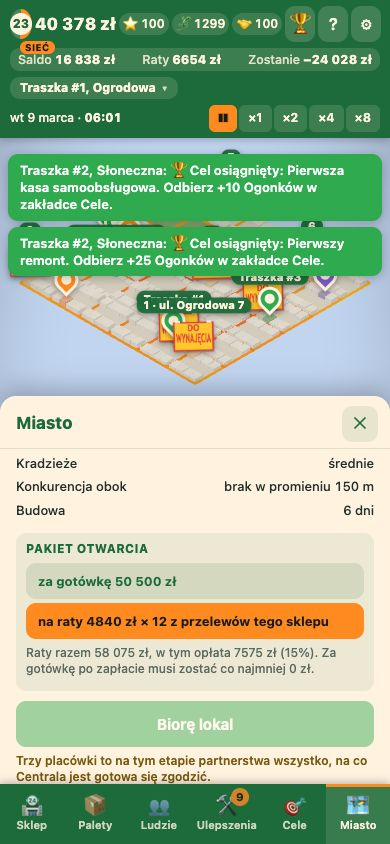
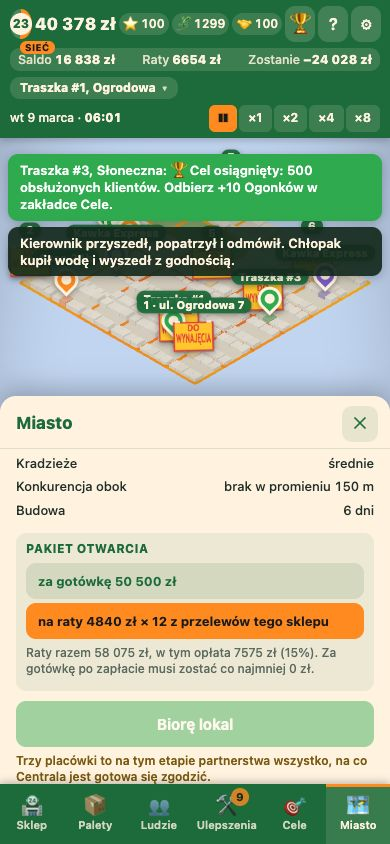
docs(raport): odświeżenie raportu 4a.2 po poprawkach końcowych i ostatnim smoke
- §3: RELET_BUILD_DAYS opisany jako niezmierzony przez boty (szacunek ok. 2 tys. zł na Dworcu wobec zapasu 1,4 tys.)
- §4: ostrzeżenie o zaufaniu to 5 z 5 biegów jednego bota, a nie „każdy gracz”
- §12: zakładki po b1d02d5, cele po ponownym otwarciu po poprawce, zaufanie po 7 kolejnych miesiącach z danych smoke.json, podgląd końca miesiąca (4 pomiary po polsku i po angielsku), nowe liczby bramek, literówka „z zapisem”
- zrzuty z nowego smoke, w tym podgląd końca miesiąca (4a2-11e i 4a2-12f)

Changed region(s): [[0.0, 0.1848, 0.9846, 0.3389]]

diff --git a/docs/superpowers/reports/2026-11-01-miasto-4a2.md b/docs/superpowers/reports/2026-11-01-miasto-4a2.md
@@ -53,7 +53,7 @@ Nie zmieniono żadnej liczby. Wszystkie cele §8.4 i oba nowe testy przeszły na
 | `difficult` | 1 / 0,6 / 1,6 / 0,7 | bez zmian | karta `wiek` na 8 seedów × 92 dni: Osiedle 18, Śródmieście 13, Dworzec 17, Biurowce 16 (bez trudnych klientów 18 / 18 / 10 / 18); kierunek zgodny ze specem |
 | Karty Dworca (wagi 1 / 1,2 / 1) | `dworzec-pociag`, `dworzec-bilon`, `dworzec-walizka` | bez zmian | 2–7 kart na seed na 92 dni, ok. 1,5 na miesiąc (punkt 7) |
 | `RELET_SHARE` | 0,3 | bez zmian | lokal po Traszce wygrywa ze świeżym w 8 z 8 par (bot, dzielnica); najcieńszy zapas na Dworcu (1,03×, punkt 8) |
-| `RELET_BUILD_DAYS` | 2 | bez zmian | dwa dni budowy mieszczą się w 92 dniach bez wpływu na test; w pomiarze sklep wraca 2 dni po wynajmie |
+| `RELET_BUILD_DAYS` | 2 | bez zmian, niezmierzone | boty i testy balansu zaczynają liczyć od otwarcia ponownie wynajętego sklepu, więc dni budowy ich nie dotykają i nie potwierdzają tej liczby. Szacunek, nie pomiar: dwa dni bez sprzedaży to na Dworcu ok. 2 tys. zł, czyli tyle, ile wynosi najcieńszy zapas testu lokalu po Traszce (1,4 tys. zł u mistrza, 1,03×, punkt 8). Wartość zostaje z projektu (§13.3) |
 | Liczby 4a.1 (`traffic`, `basket`, `patience`, `repPenalty`, `theft`, `rivals`, `package`, `buildDays`, `RIVAL_*`, `PARTNER_*`, spadek zaufania sklepu w tle) | | bez zmian | zamrożone decyzją właściciela; żaden cel nie wymagał ich ruszenia |
 
 ## 4. Trzeci sklep (pomiar, 24 miesiące, 5 seedów raportu 4a.1)
@@ -72,7 +72,7 @@ Milion po kolei: traszka-1, kopytka-541, makieta, lublin-9, seed-3. Żaden z bie
 - **Trzeci sklep zarabia mniej niż drugi.** „Zostaje Ci” m. 13–24 (tys. zł miesięcznie, według kolejności otwarcia sklepów): startowy 12,5–19,7 (średnio 15,3), drugi 8,0–18,8 (12,8), trzeci 5,5–16,3 (9,6). Trzecia placówka nie zmienia obrazu „ekspansja jest opłacalna”, ale marginalny zysk spada.
 - **Gotówka nie jest ograniczeniem.** Najniższy stan portfela w miesiącach 3–8 to 35–63 tys. zł przy trzech sklepach wobec 38–61 tys. przy dwóch; żaden z 5 biegów `trzy` nie skończył się debetem ani zamknięciem.
 - **Wybór lokali** (po kolei drugi, trzeci): traszka-1 Biurowce + Osiedle, kopytka-541 Dworzec + Biurowce, makieta Biurowce + Śródmieście, lublin-9 Śródmieście + Biurowce, seed-3 dwa razy Biurowce. Rata pakietu mieściła się w limicie nowego sklepu w każdym z 10 wyborów (wszystko na raty).
-- **Zaufanie w tle.** W każdym biegu `trzy` któryś sklep w tle spadł poniżej 40 (minima: sklep drugi 25–49, trzeci 15–33), więc ostrzeżenie z Zadania 6 będzie świeciło u każdego gracza z trzema sklepami.
+- **Zaufanie w tle.** W każdym biegu `trzy` któryś sklep w tle spadł poniżej 40 (minima: sklep drugi 25–49, trzeci 15–33), więc ostrzeżenie z Zadania 6 zapaliłoby się w 5 z 5 biegów jednego bota (`trzy`, strategia bez zakupów ulepszeń). To jeden bot z jedną strategią, a nie pomiar graczy; nie wiadomo, jak często zdarzy się to człowiekowi.
 - **Biurowce są wolniejsze niż w 4a.1.** Milion przy dwóch sklepach: w 4a.1 29 / 43 / 46 / 34 / 32, teraz 37 / 40 / 47 / 34 / 43. Różnica dotyczy lokali w Biurowcach (traszka-1 +8, seed-3 +11, makieta +1 miesiąca); lublin-9 (Śródmieście) bez zmian, a Dworzec (kopytka-541) jest o 3 miesiące szybszy.
 
 ## 5. Cykl „wypowiedz i weź znów”
@@ -176,7 +176,7 @@ Nic nie blokuje, żadna liczba nie została nastrojona. Rzeczy, które właścic
 
 ## 12. Smoke części A (Zadanie 9)
 
-Skrypt `scripts/city-smoke.mjs` (`npm run city:smoke`) gra w headless Chromium z Playwrighta, bez okna i bez panelu przeglądarki w aplikacji: `vite preview` na zbudowanym `dist`, dwa rozmiary (390×844 z dotykiem i 1280×800), każdy kontekst z `locale: 'pl-PL'`, czysta przeglądarka w każdym scenariuszu, pamięć samouczka `{"v":1,"tour":"skipped","seen":[],"tips":false}` wstawiona przed pierwszym wczytaniem. `**/api/**` jest przerywane, a ruch poza localhost blokowany i liczony: w pełnym przebiegu przerwanych zapytań do `/api/**` było 0, poza localhost 0, błędów konsoli i `pageerror` 0, awaryjnych `click()` w DOM 0 (nic nie trafiło do rankingu ani na produkcję). Czas płynie tylko przez `window.traszkaGame.skip`.
+Skrypt `scripts/city-smoke.mjs` (`npm run city:smoke`) gra w headless Chromium z Playwrighta, bez okna i bez panelu przeglądarki w aplikacji: `vite preview` na zbudowanym `dist`, dwa rozmiary (390×844 z dotykiem i 1280×800), każdy kontekst z `locale: 'pl-PL'`, czysta przeglądarka w każdym scenariuszu, pamięć samouczka `{"v":1,"tour":"skipped","seen":[],"tips":false}` wstawiona przed pierwszym wczytaniem. `**/api/**` jest przerywane, a ruch poza localhost blokowany i liczony: w pełnym przebiegu po poprawkach końcowych przerwanych zapytań do `/api/**` było 0, poza localhost 0, błędów konsoli i `pageerror` 0, awaryjnych `click()` w DOM 0 (nic nie trafiło do rankingu ani na produkcję); jedyne ostrzeżenia to dwa komunikaty sterownika WebGL („GPU stall due to ReadPixels”). Czas płynie tylko przez `window.traszkaGame.skip`.
 
 ### Fixture „po Traszce”
 
@@ -197,8 +197,8 @@ Test w tym samym pliku sprawdza kształt `[[1, otwarty], [2, zamknięty, remont 
 | 2 (dopisek, tylko telefon) | Na fixture „przed statusem” w Mieście: pinezka `.tt-cpin-obok` ma napis ukryty (`display: none`), leży pod innymi (z-index 0) i niczego nie zasłania w punkcie ich środka (`elementFromPoint`); ramki z `getBoundingClientRect` wszystkich pinezek. Patrz „Uwagi” (przecięcia kartki). |
 | 9 | Fixture „po Traszce”. Pinezka „po Traszce” na lokalu #2 (jedna), wiersz listy z dopiskiem i ceną `rentPrice` (11 300 zł), reszta wierszy z pełnym pakietem; karta (otwarta stuknięciem w pinezkę na komputerze, z listy na telefonie, bo arkusz zasłania pinezkę): blok „Wyposażenie zostało: remont 1, sprzęt 1 szt., ulepszenia 0” policzony z koperty zapisu, podpis „po Traszce: 30% ceny”, „Budowa 2 dni”, przycisk „za gotówkę 11 300 zł”, wykres z 17 narysowanymi słupkami mieszczący się w karcie. Wynajem: telefon na raty (6 rat po 2034 zł, razem 12 204 zł, opłata 904 zł; rata z przycisku karty zgadza się z ratą w danych sklepu), komputer gotówką (39 928 → 28 628 zł). Pinezka zmienia się na budowę „za 2 dni”. Przewinięcie co do minuty do 6:01 dnia otwarcia: okno „Traszka #2 znów otwarta” z „poziom 1, zaufanie 65”; z danych gry #2 ma `level` 1, zaufanie 65, remont 1, sprzęt `['sco']`, `reopened`; lista chipa ma trzy sklepy, żaden zamknięty. |
 | 10 | Karta innego wolnego lokalu (ul. Ogrodowa 7): „Biorę lokal” zablokowany tekstem „Trzy placówki to na tym etapie partnerstwa wszystko, na co Centrala jest gotowa się zgodzić.” przy obu sposobach zapłaty, licznik „placówki 3/3”, wykres 17 słupków, brak blokady „po Traszce” na zwykłym lokalu, żadnej budowy. |
-| 11 | Koniec miesiąca (marzec 2027): okno „Wyciągi od Centrali” z czterema zakładkami (Sieć, #1, #2, #3), trzy wiersze „zaufanie N” (86, 72, 52) równe zaufaniu z danych gry, trzy wyciągi. Potem smoke gra dalej miesiąc po miesiącu, aż któryś sklep w tle spadnie poniżej 40 (po 7 miesiącach: #1 81, #2 32, #3 49), i sprawdza listę chipa: ostrzeżenie „⚠ zaufanie 32 (Na cenzurowanym)” stoi dokładnie przy sklepie poniżej progu, a ⚠ przy chipie świeci. Po drodze protokół remanentu z trzema zakładkami sklepów (przyszedł na oknie miesiąca) zmierzony w każdej zakładce. |
-| 12 (tylko telefon) | Pomiary szerokości z kroków 9–11 muszą być kompletne i bez wylewu, a potem ten sam przebieg gra się od nowa po angielsku (język przez ⚙, przeładowanie ze zapisem): karta „po Traszce”, ponowny wynajem gotówką, okno „Traszka #2 is open again” (poziom 1, zaufanie 65), lista chipa z trzema sklepami, karta wolnego lokalu z tekstem limitu, okno „Head Office statements” z czterema zakładkami („Network”, trzy wyciągi, wiersze „trust N”), protokół remanentu i lista chipa z ostrzeżeniem „trust 32 (In the Bad Books)”. |
+| 11 | Koniec miesiąca (marzec 2027): okno „Wyciągi od Centrali” z czterema zakładkami (Sieć, #1, #2, #3), trzy wiersze „zaufanie N” (86, 72, 52) równe zaufaniu z danych gry, trzy wyciągi. Na telefonie potem przycisk prognozy w pasku otwiera „Wyciąg na koniec miesiąca”, „Koniec miesiąca: policz podgląd” liczy kopię sieci, a wynik ma cztery zakładki (Sieć i trzy sklepy), każda zmierzona na 390 px; okno się zamyka. Dalej smoke gra miesiąc po miesiącu, aż któryś sklep w tle spadnie poniżej 40 (po 7 kolejnych miesiącach po marcu: #1 81, #2 32, #3 49; limit pętli to 12 miesięcy), i sprawdza listę chipa: ostrzeżenie „⚠ zaufanie 32 (Na cenzurowanym)” stoi dokładnie przy sklepie poniżej progu, a ⚠ przy chipie świeci. Po drodze protokół remanentu z trzema zakładkami sklepów (przyszedł na oknie miesiąca) zmierzony w każdej zakładce. |
+| 12 (tylko telefon) | Pomiary szerokości z kroków 9–11 muszą być kompletne i bez wylewu, a potem ten sam przebieg gra się od nowa po angielsku (język przez ⚙, przeładowanie z zapisem): karta „po Traszce”, ponowny wynajem gotówką, okno „Traszka #2 is open again” (poziom 1, zaufanie 65), lista chipa z trzema sklepami, karta wolnego lokalu z tekstem limitu, okno „Head Office statements” z czterema zakładkami („Network”, trzy wyciągi, wiersze „trust N”), angielski podgląd końca miesiąca z czterema zakładkami, protokół remanentu i lista chipa z ostrzeżeniem „trust 32 (In the Bad Books)”. |
 | 8 | Konsola i `pageerror` z całego rozmiaru, także z kroków 9–12: 0. |
 
 ### Wyniki kroków
@@ -209,14 +209,14 @@ Test w tym samym pliku sprawdza kształt `[[1, otwarty], [2, zamknięty, remont 
 | 2 (dopisek): pinezka „lokal obok” | ok | nie dotyczy |
 | 9. Fixture „po Traszce”, ponowny wynajem, okno, trzy sklepy | ok (na raty) | ok (gotówką) |
 | 10. Trzy placówki: „Biorę lokal” zablokowany | ok | ok |
-| 11. Koniec miesiąca: „Sieć” i trzy wyciągi, zaufanie, ostrzeżenie na chipie | ok | ok |
+| 11. Koniec miesiąca: „Sieć” i trzy wyciągi, zaufanie, ostrzeżenie na chipie, podgląd końca miesiąca (tylko telefon) | ok | ok |
 | 12. Nowe ekrany na 390 px, polski i angielski | ok | nie dotyczy |
 | Dymki (`tips: true`) | ok | nie dotyczy |
 | 8. Konsola i `pageerror` | ok (0) | ok (0) |
 
 ### Szerokość 390 px
 
-Pomiar jak w kroku 7 z 4a.1: `scrollWidth` dokumentu i osobno każde widoczne okno, arkusz, karta lokalu i lista sklepów (`scrollWidth <= clientWidth + 1`, ramka w `[0, 390]`). W całym przebiegu telefonu 73 pomiary i 110 elementów, `scrollWidth` dokumentu 390 px wszędzie, żadnego wylewu. Nowe ekrany (39 pomiarów, 57 elementów): karta „po Traszce” z wykresem, karta wolnego lokalu z wykresem i tekstem Centrali, okno „Traszka #2 znów otwarta”, lista chipa z trzema sklepami (także z ostrzeżeniem zaufania), okno miesiąca z czterema zakładkami (Sieć i trzy wyciągi, a potem „Sieć” przy każdym z 7 kolejnych miesięcy), protokół remanentu z trzema zakładkami (każda zakładka osobno); to samo po angielsku.
+Pomiar jak w kroku 7 z 4a.1: `scrollWidth` dokumentu i osobno każde widoczne okno, arkusz, karta lokalu i lista sklepów (`scrollWidth <= clientWidth + 1`, ramka w `[0, 390]`). W całym przebiegu telefonu 81 pomiarów i 118 elementów, `scrollWidth` dokumentu 390 px wszędzie, żadnego wylewu. Nowe ekrany (47 pomiarów, 65 elementów): karta „po Traszce” z wykresem, karta wolnego lokalu z wykresem i tekstem Centrali, okno „Traszka #2 znów otwarta”, lista chipa z trzema sklepami (także z ostrzeżeniem zaufania), okno miesiąca z czterema zakładkami (Sieć i trzy wyciągi, a potem „Sieć” przy każdym z 7 kolejnych miesięcy), **podgląd końca miesiąca z czterema zakładkami (Sieć i trzy sklepy, 4 pomiary po polsku i 4 po angielsku, wszystkie 390 px bez wylewu)**, protokół remanentu z trzema zakładkami (każda zakładka osobno); to samo po angielsku. Krok 12 wymaga tych pomiarów (`NEW_SCREENS` ma teraz pięć ekranów), więc brak podglądu w przebiegu byłby porażką.
 
 ### Zrzuty
 
@@ -227,19 +227,20 @@ W `docs/superpowers/reports/2026-11-01-miasto-4a2/` (pełny komplet leży w `.sm
 - `desktop-4a2-09c-karta-po-traszce-gotowka.jpg`, `telefon-4a2-09c-karta-po-traszce-raty.jpg`: pakiet po zniżce, zapłata gotówką i na raty;
 - `desktop-4a2-09d-traszka-2-znow-otwarta.jpg`: okno „Traszka #2 znów otwarta”;
 - `telefon-4a2-09e-lista-trzech-sklepow.jpg`: chip z trzema sklepami;
-- `telefon-4a2-10-limit-trzy-placowki.jpg`: „Biorę lokal” zablokowany tekstem o trzech placówkach;
+- `telefon-4a2-10-limit-trzy-placowki.jpg`: „Biorę lokal” zablokowany tekstem o trzech placówkach (bez toastów o „pierwszej kasie” i „pierwszym remoncie”, które wcześniej wracały po ponownym otwarciu; toast o 500 klientach w #3 to cel licznikowy);
 - `desktop-4a2-11-wyciagi-siec-trzy.jpg`, `telefon-4a2-11-wyciagi-siec-trzy.jpg`: okno „Sieć” z trzema sklepami i zaufaniem;
 - `telefon-4a2-11d-protokol-remanentu-trzy-sklepy.jpg`: protokół remanentu z trzema zakładkami;
 - `telefon-4a2-11c-lista-sklepow-ostrzezenie.jpg`: lista chipa z ostrzeżeniem o zaufaniu;
+- `telefon-4a2-11e-podglad-konca-miesiaca.jpg`, `telefon-4a2-12f-angielski-podglad-konca-miesiaca.jpg`: podgląd końca miesiąca z czterema zakładkami na 390 px (po polsku i po angielsku);
 - `telefon-4a2-12a-angielski-karta-po-traszce.jpg`, `telefon-4a2-12c-angielski-wyciagi-siec.jpg`, `telefon-4a2-12e-angielski-lista-ostrzezenie.jpg`: angielski na 390 px.
 
 ### Uwagi z przebiegu
 
 1. **Pinezka „lokal obok” na 390 px: dosłowne kryterium z planu („ramka kartki nie przecina ramek innych pinezek”) nie jest spełnione.** Smoke mierzy, że napis jest ukryty, pinezka leży pod innymi i niczego nie zasłania, a przecięcia samej kartki podaje jako dowód: kartka lokalu 13 (156–202 × 307–344 px) zachodzi na pinezkę „Traszka #1” (1489 px²) i kartkę „1” (1159 px²), bo lokal obok z natury sąsiaduje z Twoim sklepem. Skutek widać na zrzucie: kartka jest praktycznie w całości pod dwiema innymi, więc na telefonie tego lokalu nie widać i nie da się go stuknąć. To zgodne z rozstrzygnięciem 9 („pod innymi pinezkami, kartę pokazuje stuknięcie”), ale rozstrzygnięcie to nie mówi, jak stuknąć w pinezkę, której nie widać. Jeśli właściciel chce spełnić kryterium dosłownie, potrzebna jest zmiana produktu (np. chowanie pinezki obok na telefonie), nie skryptu.
-2. **Zakładki okna miesiąca na 390 px skracają etykiety wielokropkiem**: „Sieć” ma 37 px i pokazuje się jako „Si…”, „#1 Ogrodowa” jako „#1 Ogrodo…” (po angielsku „Netw…”). Okno mieści się bez poziomego przewijania, więc kryterium szerokości jest spełnione, ale pierwsza zakładka jest nieczytelna. Przyczyna to `.tt-storetabs .tt-btn { flex: 1 1 auto; min-width: 0; text-overflow: ellipsis }`, w której krótka „Sieć” kurczy się razem z długimi; na komputerze etykiety są całe. Smoke zapisuje to w notatkach kroków 11 i 12.
-3. **Ponownie otwarty sklep dostaje z powrotem cele „Pierwsza kasa samoobsługowa” i „Pierwszy remont”** (toasty z Ogonkami na zrzucie `telefon-4a2-10-limit-trzy-placowki.jpg`), bo zamknięty sklep niesie w zapisie tylko wyposażenie (`ClosedFittings`), a `milestones` i `milestonesReady` rodzą się od nowa, kiedy wyposażenie już stoi. Jeśli cele zostały odebrane w pierwszym życiu sklepu, każdy cykl „wypowiedz i weź znów” pozwala odebrać je drugi raz. Nie sprawdzałem, czy pierwsze życie #2 je odebrało; to pytanie do właściciela, czy to zamierzone („nowa znajomość z Centralą”).
+2. **Zakładki sklepów na 390 px: „Sieć” jest już cała, ulice nadal się skracają.** W pierwszym przebiegu „Sieć” miała 37 px i pokazywała się jako „Si…” (`.tt-storetabs .tt-btn { flex: 1 1 auto }`). Po `b1d02d5` (`flex: 1 1 0`, równe szerokości) przebieg końcowy mierzy, że wielokropek dotyka tylko zakładek sklepów (`#1 Ogrodowa`, `#2 Słoneczna`, `#3 Słoneczna`, po 78 px, numer zostaje, ucina się nazwa ulicy), a „Sieć” i po angielsku „Network” nie; tak samo w oknie końca miesiąca, w podglądzie końca miesiąca i po angielsku (notatki kroków 11 i 12), na komputerze żadna etykieta się nie skraca. Żaden z tych ekranów nie ma poziomego wylewu.
+3. **Poprawione: ponownie otwarty sklep nie zbiera drugi raz celów za odziedziczone wyposażenie.** Wcześniej `reopenStoreAt` budował ekonomię z pustą listą celów, więc „Pierwsza kasa samoobsługowa”, „Pierwszy remont” i inne cele z wyposażeniem stawały się znów gotowe (toasty z Ogonkami na zrzucie kroku 10), do 285 Ogonków za cykl „wypowiedz i weź znów”. Teraz sklep wraca z celami, które wyposażenie już spełnia, wpisanymi jako odebrane (gotowych nie ma żadnego), a cele licznikowe zaczynają od zera; test w `src/sim/firm/relet.test.ts`. Przebieg końcowy nie pokazuje już tych toastów (zrzut kroku 10). Skutek uboczny, przyjęty: cel z wyposażeniem, którego gracz nie odebrał w pierwszym życiu sklepu, nie wypłaci się później.
 4. **Karta lokalu „po Traszce” ma numer kartki (w nagłówku „3”), choć wiersz listy i pinezka go nie mają** (pinezka ma napis „po Traszce”). Kosmetyka.
-5. **Ostrzeżenie o zaufaniu na chipie (poniżej 40) pokazuje się naturalnie dopiero po ok. 7 miesiącach od fixture'a** (zaufanie #2 w tle: 72 po pierwszym miesiącu, 41 po piątym, 32 po ósmym), więc smoke gra te miesiące (kilka minut na rozmiar i język). Zrzuty i pomiar szerokości listy z ostrzeżeniem są przez to z prawdziwej gry, bez ustawiania stanu.
+5. **Ostrzeżenie o zaufaniu na chipie (poniżej 40) pojawia się naturalnie dopiero po 7 kolejnych miesiącach po zamknięciu marca 2027** (to ósme zamknięcie miesiąca od fixture'a z dnia 187). Smoke.json podaje zaufanie przy zamknięciu marca (#1 86, #2 72, #3 52) i po 7 kolejnych miesiącach (#1 81, #2 32, #3 49, dzień 426); pośrednich odczytów nie zapisuje, więc nie twierdzę nic o miesiącach pomiędzy. Smoke gra te miesiące (kilka minut na rozmiar i język; limit pętli 12 miesięcy), więc zrzuty i pomiar szerokości listy z ostrzeżeniem są z prawdziwej gry, bez ustawiania stanu.
 6. Tekst odmowy limitu po angielsku to „Three branches is, at this stage of the partnership, all Head Office is prepared to agree to.” (liczba pojedyncza „is”, jak zapisano w raporcie 4a.1); nie zmieniałem.
 
 ### Bramki (ostatni stan gałęzi)
@@ -247,10 +248,12 @@ W `docs/superpowers/reports/2026-11-01-miasto-4a2/` (pełny komplet leży w `.sm
 | Polecenie | Wynik |
 |---|---|
 | `npm run build` (build:judge, `tsc --noEmit`, `vite build`) | kod 0 |
-| `npm test` | 191 plików przeszło, 6 pominiętych; 5618 testów przeszło, 13 pominiętych (w tym `simGolden` bez zmian, `i18n`, `architecture`, `judgeBundle`, `citySmoke` (43 testy), `districtBalance`, `firmSave` z nowym testem fixture'a); 146 s |
+| `npm test` | 191 plików przeszło, 6 pominiętych; 5628 testów przeszło, 13 pominiętych (w tym `simGolden` bez zmian, `i18n`, `architecture`, `judgeBundle`, `citySmoke` (46 testów), `districtBalance`, `firmSave`, `relet` z testem celów po ponownym otwarciu); 159 s |
 | `npm run check:vercel-build` | kod 0, `WYNIK: PASS (25 sprawdzeń)` |
-| `npm run city:smoke` (`PLAYWRIGHT_ROOT` wskazuje lokalny Playwright) | wszystkie kroki „ok” na obu rozmiarach (telefon 12, komputer 10 wierszy), kod 0, 784 s |
-| `git diff main -- src/sim/simVersion.ts tests/simGolden.test.ts src/server src/sim/ranked.ts src/game/rankedRun.ts` | pusto |
+| `npm run city:smoke` (`PLAYWRIGHT_ROOT` wskazuje lokalny Playwright) | wszystkie kroki „ok” na obu rozmiarach (telefon 12, komputer 10 wierszy), kod 0, 819 s; błędy konsoli 0, poza localhost 0, przerwane `/api/**` 0, awaryjne `click()` 0 |
+| `git diff main -- src/sim/simVersion.ts tests/simGolden.test.ts src/server src/sim/ranked.ts src/game/rankedRun.ts` oraz `git diff b1d02d5 -- … src/sim/city/generateCity.ts` | pusto |
+
+Stan po poprawkach końcowych (`c760ef7`…): ponowne otwarcie sklepu nie zbiera drugi raz celów za wyposażenie, metraż i krzywa dnia lokalu po Traszce z układu i `SiteMods`, jedna nazwa progu zaufania w tle (`BACKGROUND_TRUST_WARN_BELOW`), teksty Dworca i słowniczek, smoke z podglądem końca miesiąca.
 
 ### Jak odtworzyć
 
